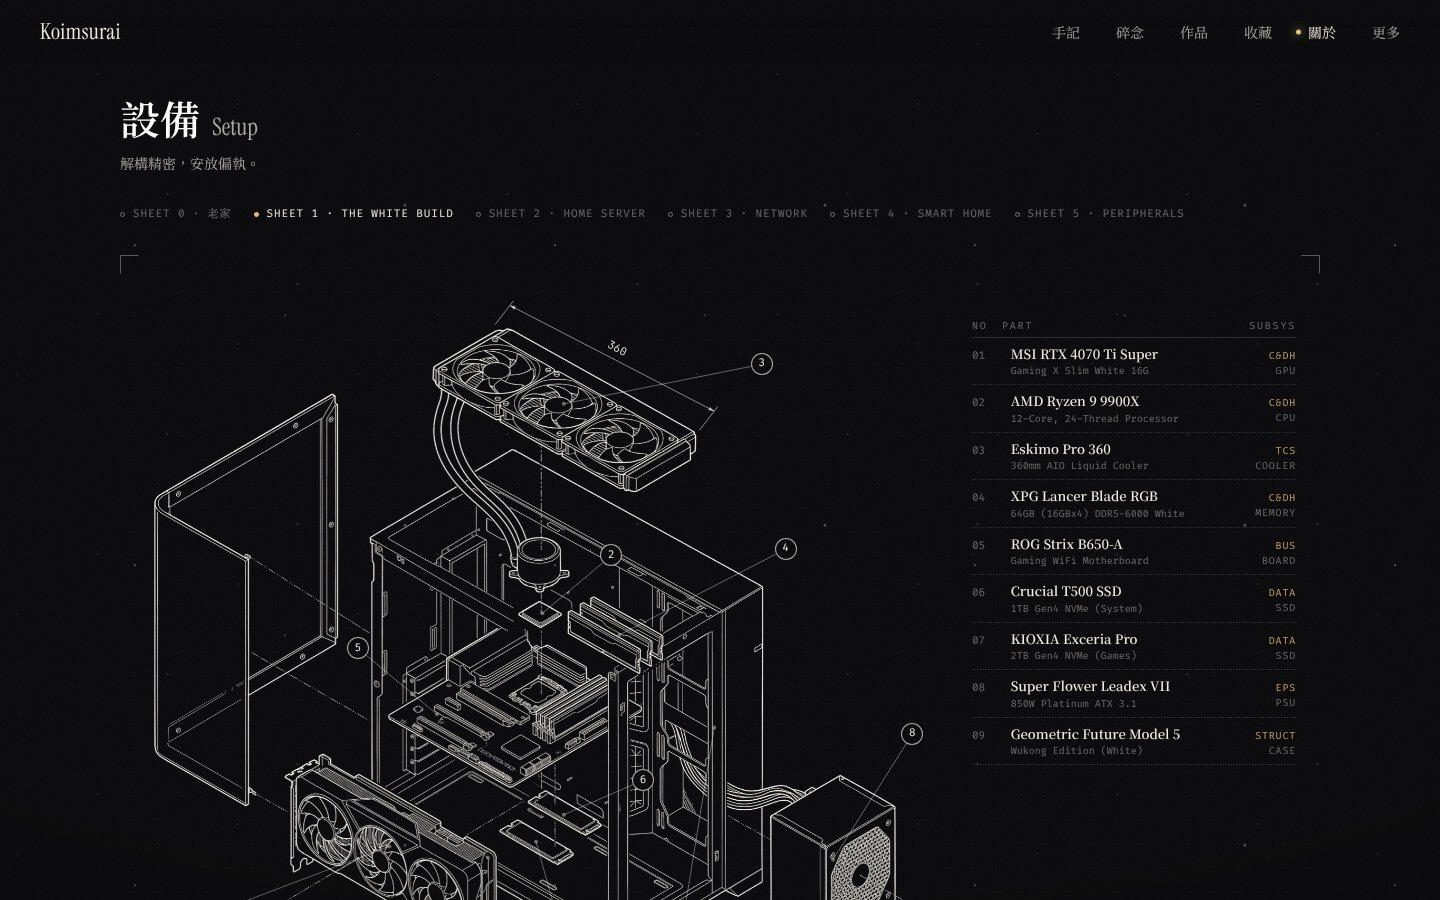
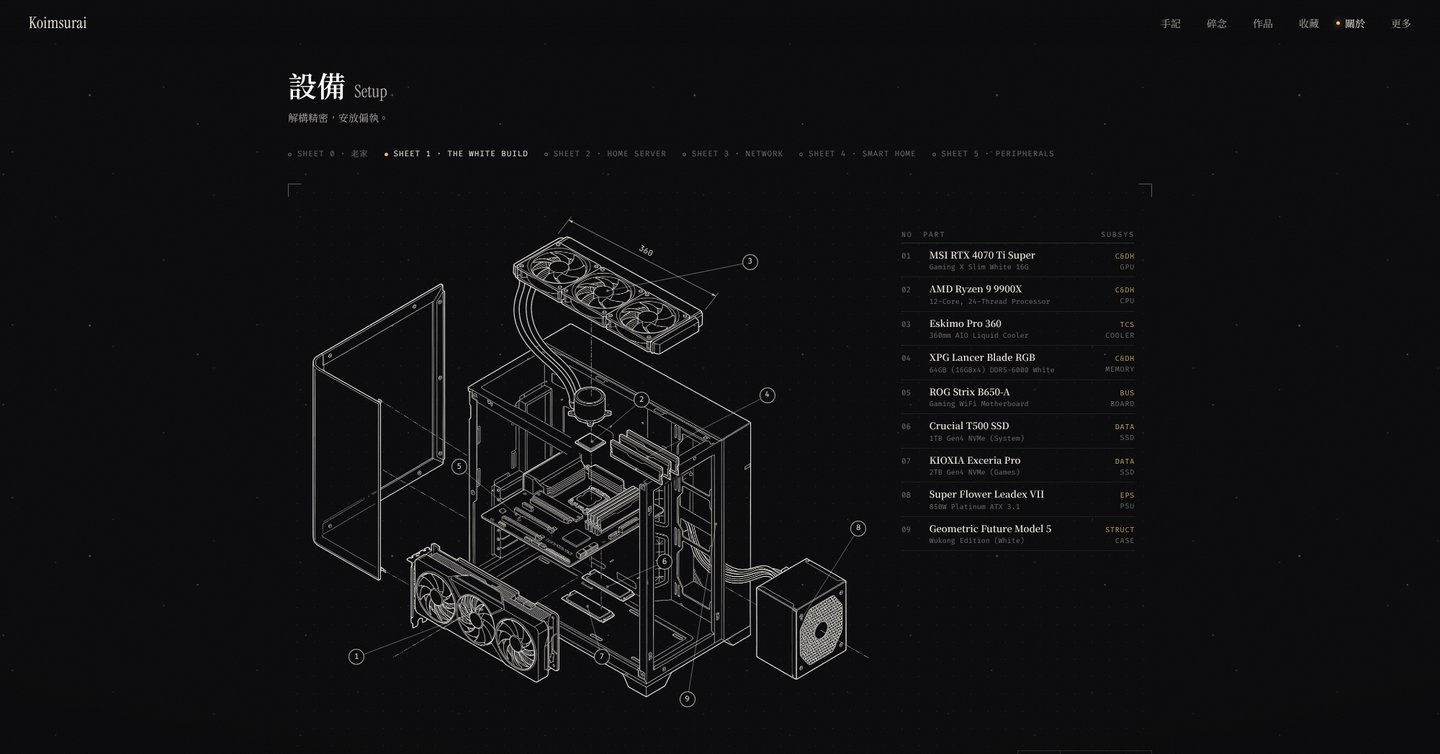
README 換上正式站與後台的截圖
- 首頁、手記、文章、收藏、航行日誌用正式站的畫面（站長提供，2000 寬縮成 1440×754；
  文章那張左下角滑過連結時的網址列用底色蓋掉）
- 作品、設備、此站點用同樣 2000 寬的視窗重截，跟正式站的圖同一個比例與字級
- 新增「後台」一組：此刻、手記、碎念、留言
- 拿掉碎念那張（種子資料的測試字）；大遷移一節補上後台的滿版與轉場

Claude-Session: https://claude.ai/code/session_014eQ6QWpHmTy4irv3KdcTcP

diff --git a/README.en.md b/README.en.md
@@ -76,13 +76,23 @@ Articles can also be read in a sans, a handwritten-style or a modern sans face, 
 
 ## 📸 Screenshots
 
-| Moments | Works |
+| Home: moons around Saturn | Notes: rings of star trails |
 |:---:|:---:|
-| [![Moments](.github/screenshots/moments.jpg)](https://koimsurai.com/en/thinking) | [![Works](.github/screenshots/works.jpg)](https://koimsurai.com/en/portfolio) |
-| **Collection** | **Log** |
+| [![Home](.github/screenshots/home.jpg)](https://koimsurai.com) | [![Notes](.github/screenshots/notes.jpg)](https://koimsurai.com/en/blog) |
+| **Article** | **Works: a spiral course outward** |
+| [![Article](.github/screenshots/post.jpg)](https://koimsurai.com/en/blog) | [![Works](.github/screenshots/works.jpg)](https://koimsurai.com/en/portfolio) |
+| **Collection: signals sent from Earth** | **Log: a launch from the ground** |
 | [![Collection](.github/screenshots/collection.jpg)](https://koimsurai.com/en/watch) | [![Log](.github/screenshots/log.jpg)](https://koimsurai.com/en/history) |
-| **Setup** | **Colophon** |
+| **Setup: a spacecraft's blueprints** | **Colophon** |
 | [![Setup](.github/screenshots/setup.jpg)](https://koimsurai.com/en/setup) | [![Colophon](.github/screenshots/colophon.jpg)](https://koimsurai.com/en/about-site) |
+
+### Admin
+
+| Now | Notes |
+|:---:|:---:|
+| ![Admin: Now](.github/screenshots/admin-dashboard.jpg) | ![Admin: Notes](.github/screenshots/admin-posts.jpg) |
+| **Moments**: synced records on the right; "Write" pulls one into the composer | **Comments**: list on the left, the selected one on the right; keyboard j / k / a / s / r |
+| ![Admin: Moments](.github/screenshots/admin-thoughts.jpg) | ![Admin: Comments](.github/screenshots/admin-comments.jpg) |
 
 ## 🚀 The October 2026 rebuild
 
@@ -98,6 +108,7 @@ This wasn't a reskin: the whole site was rebuilt to the three rules above. The p
 **Admin**
 
 - Rebuilt in the same materials, with the sidebar grouped like the site: Now, Write, Keep, Reply, Station
+- Content fills the full width to the right of the sidebar (list pages stay one centred column); changing pages fades the old one out while the new one fades and rises in, and switching tabs does the same
 - New features: scheduled publishing, a trash, moments with attached works, link-exchange review, and public-visibility settings for photos and the collection (see "The site itself" below)
 
 **An earlier migration**: in July 2026 the backend moved from Express to Rust in one go. All 120+ endpoints were diffed against the old ones, and the switch happened only once every response matched. The process is written up in [`backend/STRANGLER.md`](backend/STRANGLER.md) (in Chinese).

diff --git a/README.md b/README.md
@@ -76,13 +76,23 @@
 
 ## 📸 畫面
 
-| 碎念 | 作品 |
+| 首頁：繞著土星的衛星 | 手記：一圈一圈的星軌 |
 |:---:|:---:|
-| [![碎念](.github/screenshots/moments.jpg)](https://koimsurai.com/thinking) | [![作品](.github/screenshots/works.jpg)](https://koimsurai.com/portfolio) |
-| **收藏** | **航行日誌** |
+| [![首頁](.github/screenshots/home.jpg)](https://koimsurai.com) | [![手記](.github/screenshots/notes.jpg)](https://koimsurai.com/blog) |
+| **文章** | **作品：往外長的螺旋航線** |
+| [![文章](.github/screenshots/post.jpg)](https://koimsurai.com/blog) | [![作品](.github/screenshots/works.jpg)](https://koimsurai.com/portfolio) |
+| **收藏：從地球發出的訊號** | **航行日誌：從地表升空** |
 | [![收藏](.github/screenshots/collection.jpg)](https://koimsurai.com/watch) | [![航行日誌](.github/screenshots/log.jpg)](https://koimsurai.com/history) |
-| **設備** | **此站點** |
+| **設備：太空船的工程圖** | **此站點** |
 | [![設備](.github/screenshots/setup.jpg)](https://koimsurai.com/setup) | [![此站點](.github/screenshots/colophon.jpg)](https://koimsurai.com/about-site) |
+
+### 後台
+
+| 此刻 | 手記 |
+|:---:|:---:|
+| ![後台：此刻](.github/screenshots/admin-dashboard.jpg) | ![後台：手記](.github/screenshots/admin-posts.jpg) |
+| **碎念**：右邊是同步進來的紀錄，按「寫」帶進左邊 | **留言**：左邊清單、右邊那一則，鍵盤 j／k／a／s／r |
+| ![後台：碎念](.github/screenshots/admin-thoughts.jpg) | ![後台：留言](.github/screenshots/admin-comments.jpg) |
 
 ## 🚀 2026-10 的大遷移
 
@@ -98,6 +108,7 @@
 **後台**
 
 - 換成跟前台同一套材料，側欄照前台的分區分成「此刻、寫、收、回、站」
+- 內容撐滿側欄右邊的寬度（清單類的頁面收成一欄置中）；換頁時舊畫面淡出、新的那頁淡入上浮，切分頁也一樣
 - 新功能：排程發佈、回收桶、碎念附作品、友鏈申請審核、照片與收藏的前台顯示設定（見下面「站台本身」）
 
 **更早的一次遷移**：2026-07 後端從 Express 整套搬到 Rust，120 多個端點逐一對拍、確認回應一模一樣才切換。過程記錄在 [`backend/STRANGLER.md`](backend/STRANGLER.md)。
